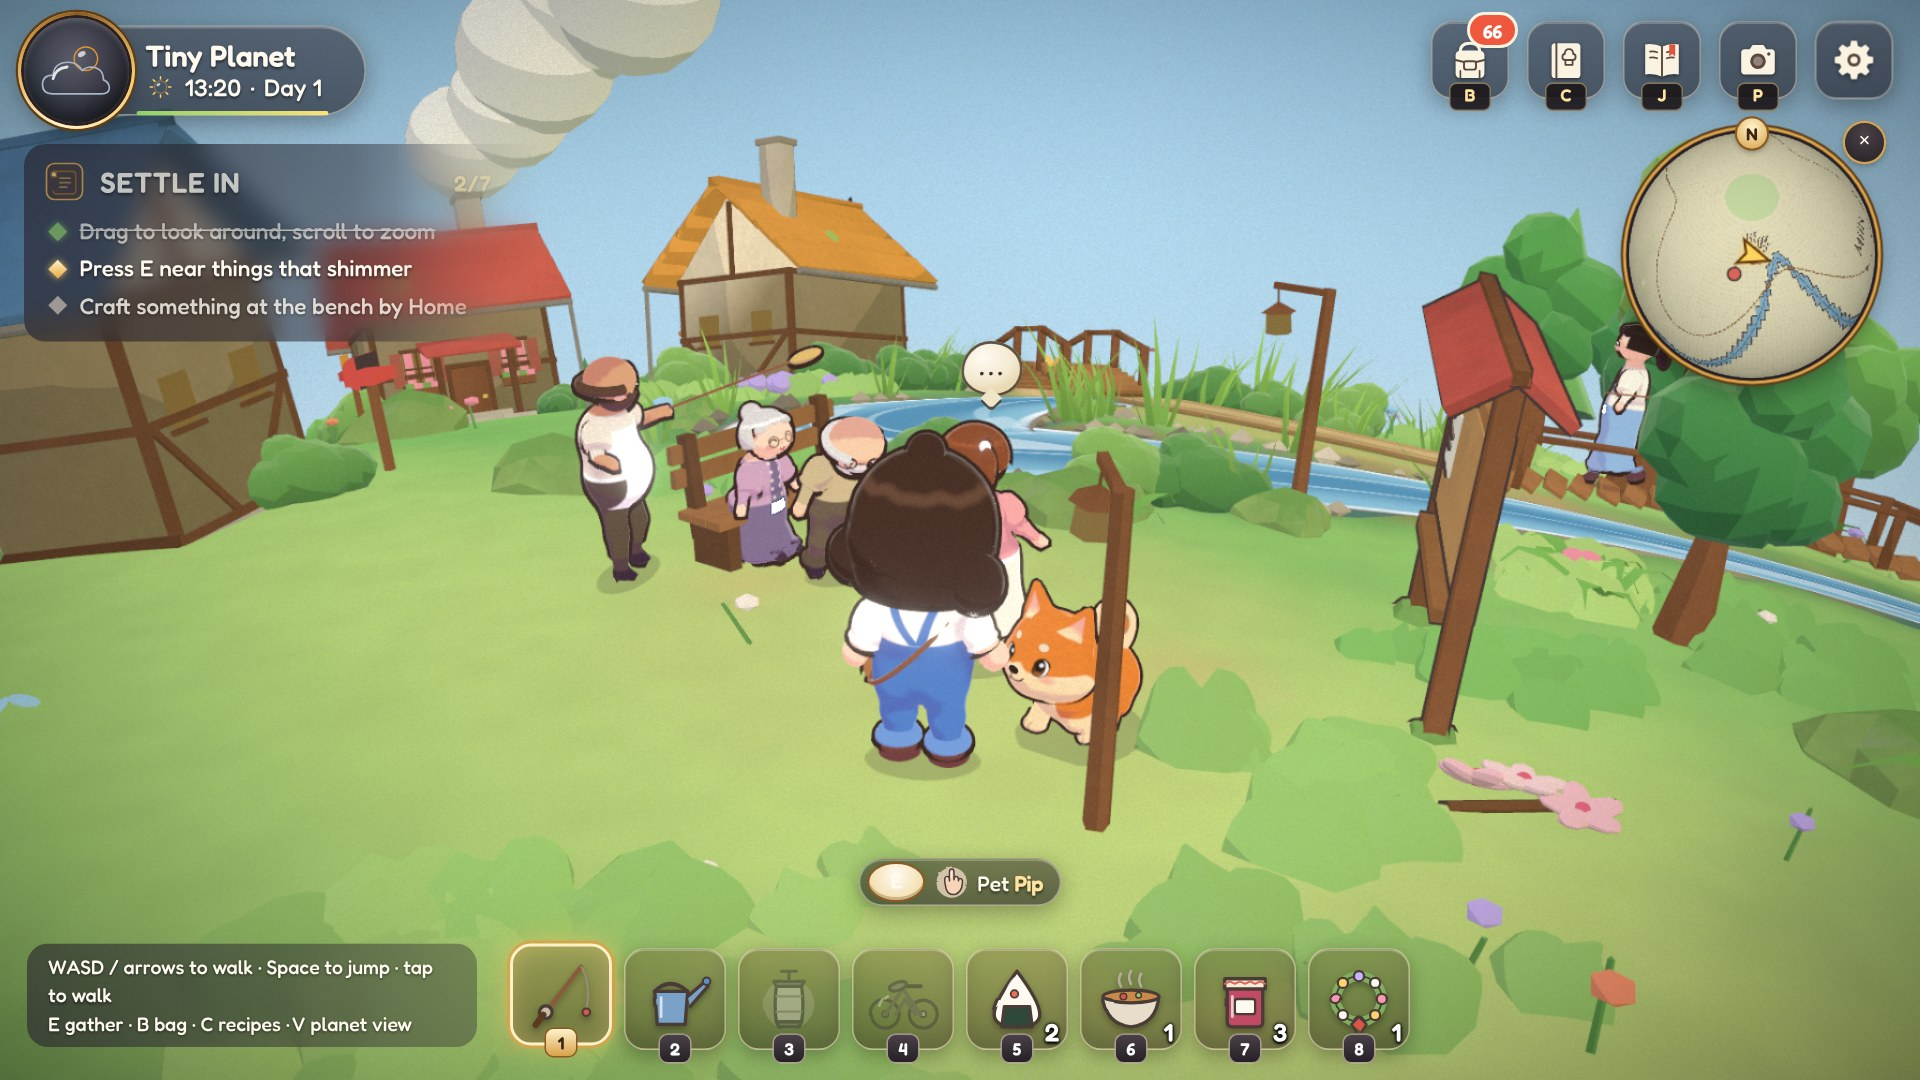
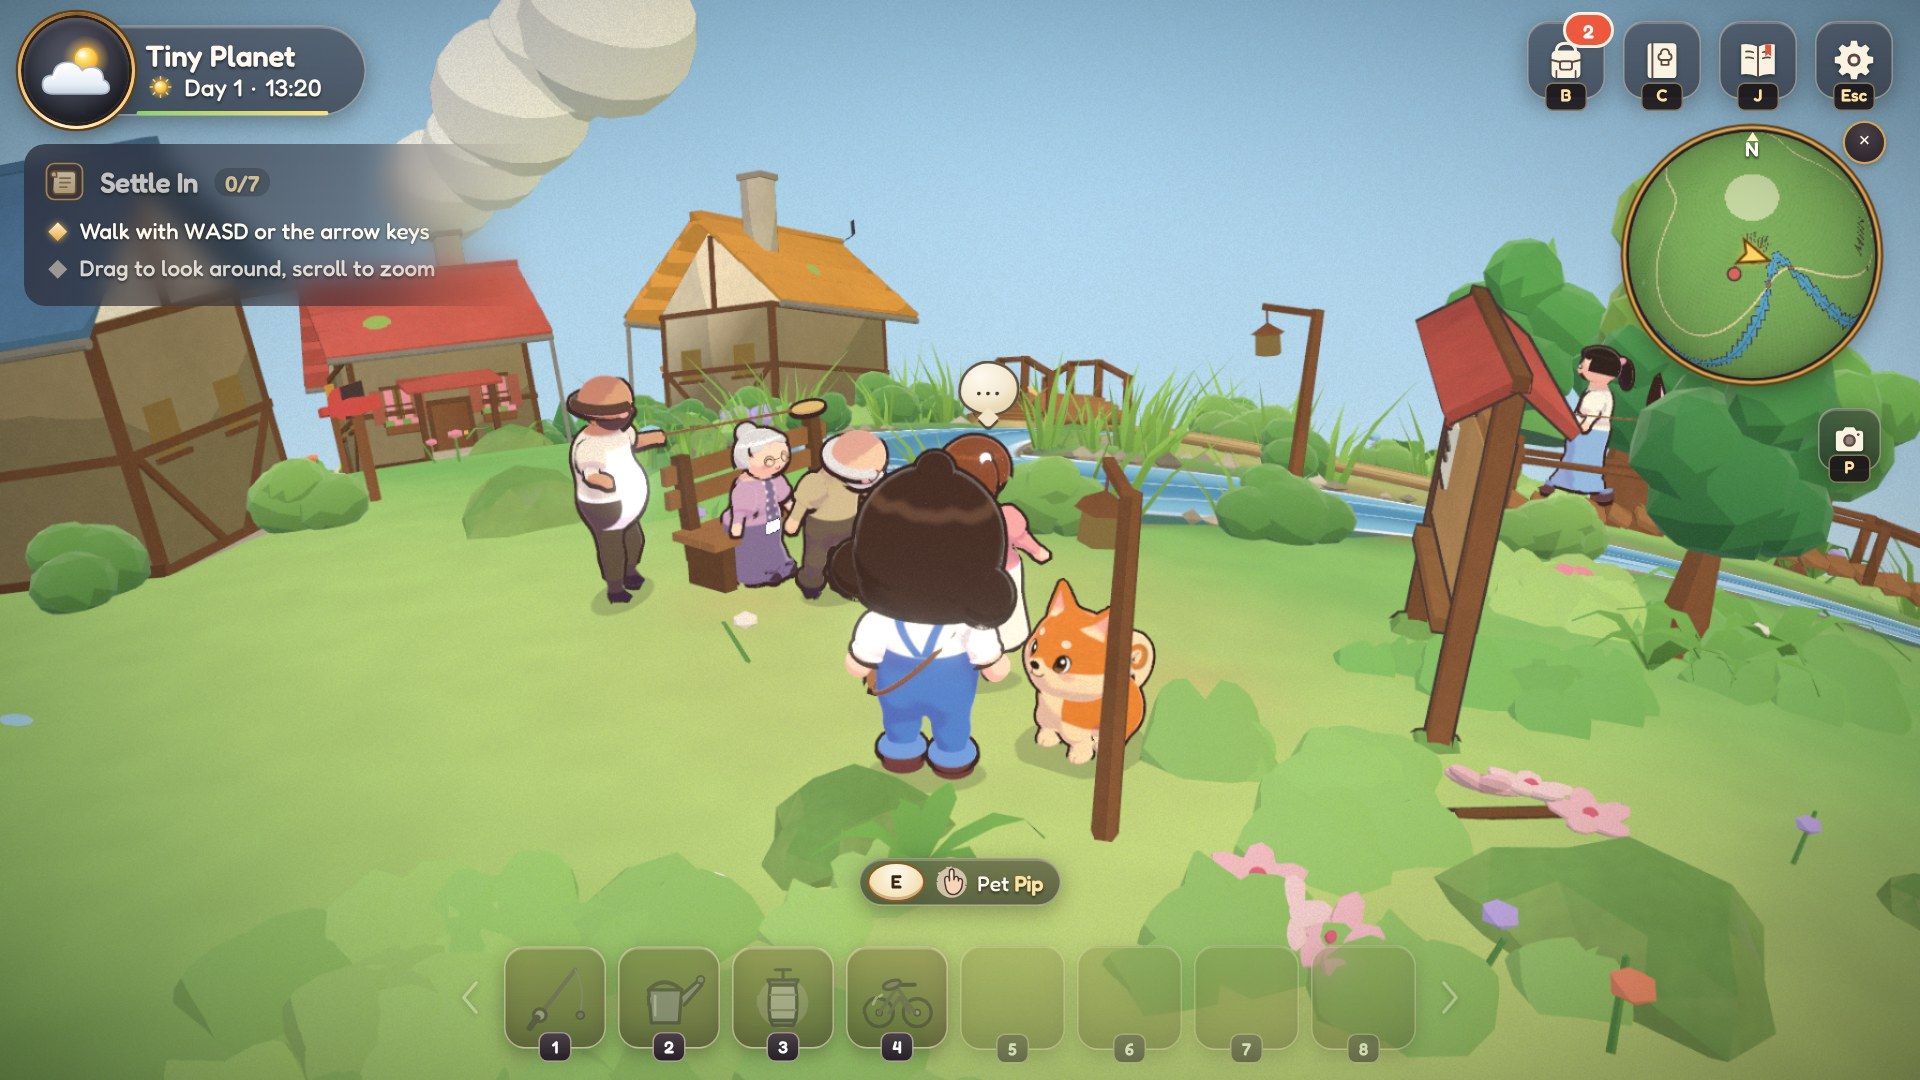
Remove the bottom-left controls guide
Grandma's note and the quest tracker teach the same keys, so the old 'WASD / arrows to walk...' line
goes (desktop and planet view; phones already hid it). The 'Tiny Planet' label stays for screen readers.
hud.spec now checks the name in the identity bar and that the guide is gone.

Claude-Session: https://claude.ai/code/session_01CNaBwLKpSJahPyEzLh7zFH

diff --git a/src/ui/glass/glass.css b/src/ui/glass/glass.css
@@ -36,8 +36,6 @@
 /* the old title label: the name now lives in the identity bar; the controls hint sits under it as a glass line */
 .tp-title{top:94px;left:18px;padding:0;background:none;box-shadow:none;transform:none;border-radius:0}
 .tp-title .tp-name{position:absolute;width:1px;height:1px;overflow:hidden;clip-path:inset(50%);white-space:nowrap}
-.tp-title .tp-hint{display:inline-block;margin:0;padding:6px 14px;border-radius:14px;font-size:13.5px;line-height:1.45;opacity:1;color:var(--t1);text-shadow:var(--g-ts);
-  background:linear-gradient(90deg,rgba(40,36,46,.62),rgba(40,36,46,.38));-webkit-backdrop-filter:blur(8px);backdrop-filter:blur(8px)}
 
 /* ---------- top-right square menu buttons (keeps .tp-btns / .tp-btn) ---------- */
 .tp-ui .tp-btns.g-top{top:14px;right:18px;bottom:auto;gap:12px}
@@ -101,9 +99,6 @@ html:has(.sb-veil) .mm-wrap,html:has(.sb-veil) .tp-title{display:none}
 .mm-touch .mm-n{font-size:10px;top:4px}
 @media (orientation:landscape) and (max-height:500px){.mm-touch .mm-map{width:86px;height:86px}}
 
-/* controls hint: bottom-left on desktop now the corner is free (it fades after a while) */
-.tp-title{top:auto;bottom:22px;max-width:300px}
-.tp-title .tp-hint{font-size:13px}
 
 /* ---------- quest tracker (desktop) ---------- */
 .g-quest{position:absolute;left:16px;top:96px;width:300px;padding:10px 40px 12px 12px;border-radius:14px 0 0 14px;font-family:Fredoka,sans-serif;color:var(--t1);text-shadow:var(--g-ts);

diff --git a/src/App.jsx b/src/App.jsx
@@ -540,14 +540,6 @@ function Rig() {
   })
   return null
 }
-function Hint() {
-  const [m, setM] = React.useState(VIEW.mode)
-  useEffect(() => subscribeView(setM), [])
-  // the controls line fades once she's been walking a while (Grandma's note teaches them too); a view change brings it back
-  const [quiet, setQuiet] = React.useState(false)
-  useEffect(() => { setQuiet(false); const id = setTimeout(() => setQuiet(true), 45000); return () => clearTimeout(id) }, [m])
-  return <div className={'tp-hint' + (quiet ? ' quiet' : '')}>{TOUCH ? (m === 'follow' ? <>stick to walk · push to the edge to run · tap the ground to walk<br />drag to look · pinch to zoom · ✋ gather</> : <>drag to spin · pinch to zoom · tap Walk to go back</>) : m === 'follow' ? <>WASD / arrows to walk · Space to jump · tap to walk<br />E gather · B bag · C recipes · V planet view</> : <>drag to spin the planet · V to walk</>}</div>
-}
 
 const GAMEON = VIEW.mode === 'follow' && !q.has('nogame')
 function loadGame() {
@@ -810,7 +802,7 @@ export default function App() {
       <WorldFx />
     </Canvas>
     <div className="tp-title">
-      <div className="tp-name">Tiny Planet</div><Hint />
+      <div className="tp-name">Tiny Planet</div>
     </div>
     {GAMEON && <GameSlot ui />}
     {TOUCH && <TouchPace />}

diff --git a/src/ui/hud.css b/src/ui/hud.css
@@ -4,9 +4,6 @@
   padding:8px 16px 10px 14px;border-radius:14px 18px 12px 16px;background:radial-gradient(ellipse at 30% 20%,#fbf4e3f0,#f2e5c8e6);
   box-shadow:0 0 0 1.5px #4a3a3555,0 3px 12px rgba(74,58,53,.18);transform:rotate(-.6deg);transition:padding .6s ease}
 .tp-name{font-size:30px;font-weight:500;line-height:1.05}
-.tp-hint{font-size:14px;line-height:1.45;opacity:.82;margin-top:2px;animation:tp-hint-in .6s ease}
-.tp-hint.quiet,html:has(.tpt-note) .tp-hint{display:none} /* the note teaches the same keys; the label shrinks to just the name */
-@keyframes tp-hint-in{from{opacity:0}}
 /* the minimap folds down to a smaller corner card while the note takes the right side, and lifts on hover */
 .mm-wrap:not(.mm-touch) .mm-map{transition:transform .5s ease,opacity .5s ease;transform-origin:0 100%}
 html:has(.tpt-note) .mm-wrap:not(.mm-touch) .mm-map{transform:rotate(-.6deg) scale(.72);opacity:.88}

diff --git a/tests/smoke/hud.spec.js b/tests/smoke/hud.spec.js
@@ -7,9 +7,9 @@ test('desktop glass HUD layout at 1280', async ({ page }) => {
   const w = watchErrors(page)
   await boot(page, '?enter&nosave&t=day&out')
   await page.waitForFunction(() => window.__scReady, null, { timeout: 150_000, polling: 250 })
-  await expect(page.locator('.tp-title')).toBeVisible()
-  await expect(page.locator('.tp-title')).toContainText('Tiny Planet')
-  await expect(page.locator('.tp-title')).toContainText('WASD')
+  // the name lives in the identity bar; the old bottom-left controls guide is gone (Grandma's note + the quest tracker teach the keys)
+  await expect(page.locator('.tp-clock')).toContainText('Tiny Planet')
+  await expect(page.locator('.tp-hint')).toHaveCount(0)
   await expect(page.locator('.tp-menubtn')).toHaveCount(0)
   await expect(page.locator('.tp-pad')).toHaveCount(0)
   await expect(page.locator('.tp-btns > .tp-btn')).toHaveCount(5)
